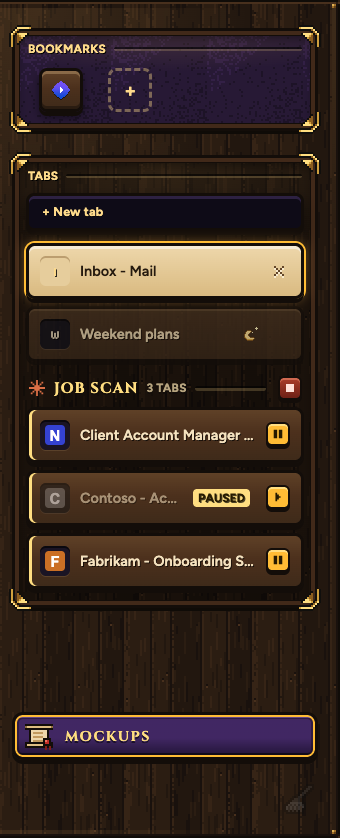
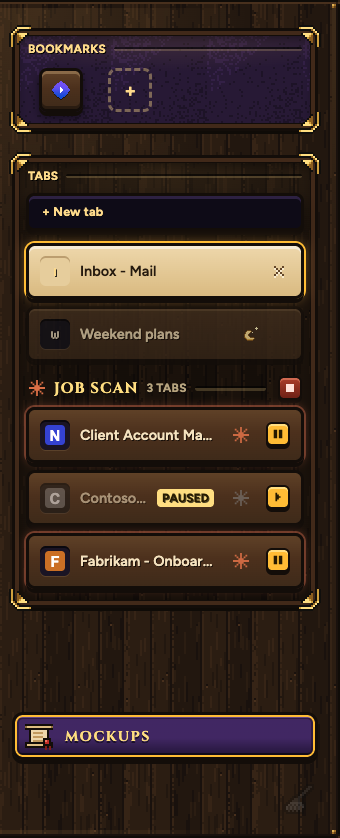
Sheet 111 v2: Pause after Claude's spark on the sheet 110 v3 rows

diff --git a/src/Shell/test/electron/sheet111-shot.ts b/src/Shell/test/electron/sheet111-shot.ts
@@ -2,7 +2,8 @@
 // STOP today ends Claude's whole job and the chat cannot start again. The sheet shows Pause and Go on per tab, in the
 // tab list and on the band, with STOP left as the stop for all. Real band and list layer: the list holds a made-up
 // "Job scan" of three Claude tabs (as sheet 110), the band shows him watching one of them (Samara's real paintWho).
-// The new pieces use Samara's own keys (takek, stopk) and chip (dupchip). Nothing is built.
+// The new pieces use Samara's own keys (takek, stopk) and chip (dupchip), on the rows as sheet 110 v3 built them
+// (Claude's spark at the end, the orange breath). Nothing is built.
 // Run (from src/Shell): perl -e 'alarm 120; exec @ARGV' node_modules/electron/dist/Electron.app/Contents/MacOS/Electron test/electron/sheet111-shot.ts <out-prefix>
 import { app, BrowserWindow, screen } from 'electron';
 import http from 'node:http';
@@ -40,19 +41,21 @@ const POSTING = `<!doctype html><title>Contoso - Account Manager, Partners</titl
 const PAUSE = '<svg viewBox="0 0 7 7" width="12" height="12" shape-rendering="crispEdges" aria-hidden="true"><path d="M1 1h2v5H1zM4 1h2v5H4z" fill="#2a1c00"/></svg>';
 const GO = '<svg viewBox="0 0 7 7" width="12" height="12" shape-rendering="crispEdges" aria-hidden="true"><path d="M2 1h1v5H2zM3 2h1v3H3zM4 3h1v1H4z" fill="#2a1c00"/></svg>';
 const LIST_CSS = `
-  .pk111{margin-left:auto;width:22px;height:22px;flex:0 0 auto;border-radius:6px;border:2.5px solid var(--outline);display:grid;place-items:center;padding:0;cursor:pointer;
+  .pk111{margin-left:4px;width:22px;height:22px;flex:0 0 auto;border-radius:6px;border:2.5px solid var(--outline);display:grid;place-items:center;padding:0;cursor:pointer;
     background:var(--gold);box-shadow:0 3px 0 var(--outline),inset 0 2px 0 var(--gold-light);position:relative;top:-1px}
+  .drawer .tp.drv.paused111{animation:none}
   .drawer .tp.drv.paused111 .t{opacity:.55}
-  .drawer .tp.drv.paused111 .fi{opacity:.55;filter:grayscale(1)}
-  .drawer .tp.drv .dupchip{margin-left:auto;margin-right:6px}
-  .drawer .tp.drv .dupchip+.pk111{margin-left:0}`;
+  .drawer .tp.drv.paused111 .fi,.drawer .tp.drv.paused111 .own{opacity:.55;filter:grayscale(1)}
+  .drawer .tp.drv .dupchip{margin-left:auto}
+  .drawer .tp.drv .dupchip+.own{margin-left:6px}`;
+// Sheet 110 v3 (built): Claude's rows end with its spark and breathe orange; Pause goes after the spark.
 // The list: Pause on every working row, the paused row dimmed with PAUSED and Go on. The header's STOP stops all.
 const LIST = (paused: number | null, armed: boolean) => `(() => { try {
   document.querySelectorAll('.drawer .tp.drv .pk111, .drawer .tp.drv .dupchip').forEach((x) => x.remove());
   for (const r of document.querySelectorAll('.drawer .tp.drv')) {
     const id = [...document.querySelectorAll('.drawer .tp.drv')].indexOf(r) + 11, off = id === ${paused};
     r.classList.toggle('paused111', off);
-    if (off) r.append(Object.assign(document.createElement('span'), { className: 'dupchip', textContent: 'PAUSED' }));
+    if (off) r.querySelector('.own').before(Object.assign(document.createElement('span'), { className: 'dupchip', textContent: 'PAUSED' }));
     const k = document.createElement('button'); k.className = 'pk111'; k.type = 'button'; k.innerHTML = off ? ${JSON.stringify(GO)} : ${JSON.stringify(PAUSE)}; r.append(k);
   }
   if (${armed}) { const s = document.querySelector('.drawer .th.driver .stopk'); s.classList.add('armed'); s.textContent = 'STOP ALL?'; }

diff --git a/docs/cockpit/sheet-111-stop-per-tab.html b/docs/cockpit/sheet-111-stop-per-tab.html
@@ -8,7 +8,7 @@
      Claude's tabs, in the tab list and on the band; STOP stays as the stop for all; a new plan works after it.
      Every picture is Samara's real list layer and band (test/electron/sheet111-shot.ts) with a made-up "Job scan"
      (Northwind, Contoso, Fabrikam are made up). The new keys use the band's own gold key and the list's own chip.
-     The gold strip on Claude's rows is today's look; sheet 110 is deciding it separately. Not built. -->
+     v2: on Claude's rows as sheet 110 v3 built them (its spark at the end, the orange breath). Not built. -->
 <link rel="stylesheet" href="../../src/Shell/pages/cockpit.css">
 <style>
   html,body{background:#17110c !important;overflow:auto !important;height:auto !important;margin:0;image-rendering:auto !important}
@@ -39,7 +39,7 @@
 <p class="lead">You stop and start Claude on one tab while it keeps going on the others. STOP still stops everything, and Claude can start again after it in the same chat. These are Samara's real tab list and band. The job and its sites are made up.</p>
 
 <h2>A · THE TAB LIST: PAUSE ON EACH OF CLAUDE'S TABS</h2>
-<p class="sub">Each of Claude's tabs gets a <b>Pause</b> key where your own tabs have their close key. A paused tab goes grey and says <b>PAUSED</b>, and its key turns into <b>Go on</b>. The red key on the group stays the stop for all, and now asks <b>STOP ALL?</b>.</p>
+<p class="sub">Each of Claude's tabs gets a <b>Pause</b> key after its spark. A paused tab stops glowing, goes grey and says <b>PAUSED</b>, and its key turns into <b>Go on</b>. The red key on the group stays the stop for all, and now asks <b>STOP ALL?</b>.</p>
 <div class="row">
   <figure><figcaption>1 · ALL THREE WORKING</figcaption><img src="sheet-111/s-list-working.png" alt=""></figure>
   <figure><figcaption>2 · CONTOSO PAUSED, THE OTHER TWO GO ON</figcaption><img src="sheet-111/s-list-paused.png" alt=""></figure>
